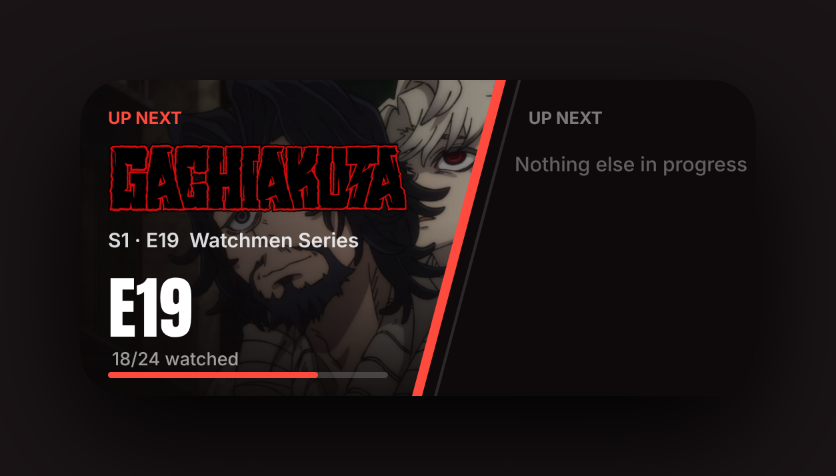
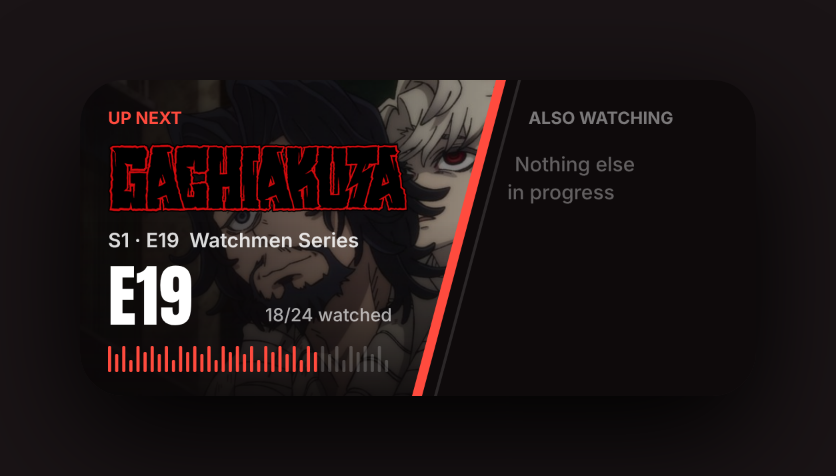
Nuvio Up Next v8: Slash layout with ticket barcode progress as default
Claude-Session: https://claude.ai/code/session_01PXGdQy46T6wRnRrF1gL8cR

diff --git a/scriptable/Nuvio Up Next.js b/scriptable/Nuvio Up Next.js
@@ -26,7 +26,7 @@ const ACCENT = "#ff4b3e";
 // "slash"   = diagonal red cut through the backdrop; Up Next steps down the diagonal
 // "ticket"  = cinema ticket: backdrop body + torn stub with % and 3 mini posters
 // "shelf"   = logo + big % on top, a row of posters (current one highlighted) along the bottom
-const LAYOUT = "split";
+const LAYOUT = "slash";
 
 // Nuvio's official public API (nuvio.tv/docs). The publishable key is published there for third-party apps.
 const NUVIO = "https://api.nuvio.tv";
@@ -633,6 +633,15 @@ const pctText = (c, info) => (info.upNext ? (info.notOut ? `IN ${info.d}D` : `E$
 const barPct = (c, info) => (info.upNext ? (c.seasonEpisodes ? Math.min(1, (c.seen || []).length / c.seasonEpisodes) : 0) : info.pct);
 const leftText = (c, info) => (info.upNext ? (info.notOut ? `E${c.showEpisode} airs soon` : `${(c.seen || []).length}${c.seasonEpisodes ? "/" + c.seasonEpisodes : ""} watched`) : info.left ? `${hm(info.left)} left` : "");
 
+// Ticket-style barcode progress: bars of varying height, red up to the % watched.
+function barcode(ctx, x, yBottom, w, pct, n = 40) {
+  const step = w / n;
+  for (let i = 0; i < n; i++) {
+    const h = [13, 9, 13, 6, 13, 10][i % 6];
+    rrect(ctx, x + i * step, yBottom - h, Math.max(1.6, step * 0.42), h, 0.6, i / n < pct ? col(ACCENT) : col("#ffffff", 0.2));
+  }
+}
+
 // SLASH
 async function drawSlash(c) {
   const ctx = new DrawContext(); ctx.size = new Size(W, H); ctx.opaque = true; ctx.respectScreenScale = true;
@@ -654,13 +663,13 @@ async function drawSlash(c) {
   text(ctx, info.kick, X, 14, 170, Font.boldSystemFont(8.5), col(ACCENT));
   await drawLogo(ctx, c, X, 30, 150, 38, 28);
   text(ctx, fit(subLine(c, info), 10, 150, 0.55), X, 74, 190, Font.semiboldSystemFont(10), col("#ffffff", 0.85));
-  text(ctx, pctText(c, info), X, 96, 120, COND(34), col("#ffffff"));
-  text(ctx, leftText(c, info), X + 2, 134, 150, Font.mediumSystemFont(9), col("#ffffff", 0.6));
-  const BW = 140, bp = barPct(c, info); rrect(ctx, X, H - 12, BW, 3, 1.5, col("#ffffff", 0.18));
-  if (bp > 0) rrect(ctx, X, H - 12, Math.max(3, BW * bp), 3, 1.5, col(ACCENT));
-  if (!(c.rows && c.rows.length)) text(ctx, "Nothing else\nin progress", edge(40) + 16, 36, 110, Font.mediumSystemFont(10), col("#ffffff", 0.35));
+  const big = pctText(c, info);
+  text(ctx, big, X, 90, 120, COND(34), col("#ffffff"));
+  text(ctx, leftText(c, info), X + 142 - 120, 112, 120, Font.mediumSystemFont(9), col("#ffffff", 0.65), "right");
+  barcode(ctx, X, H - 12, 142, barPct(c, info));
+  if (!(c.rows && c.rows.length)) { text(ctx, "Nothing else", edge(40) + 16, 36, 110, Font.mediumSystemFont(10), col("#ffffff", 0.35)); text(ctx, "in progress", edge(54) + 16, 50, 110, Font.mediumSystemFont(10), col("#ffffff", 0.35)); }
 
-  text(ctx, "UP NEXT", edge(14) + 16, 14, 80, Font.boldSystemFont(8.5), col("#ffffff", 0.45));
+  text(ctx, "ALSO WATCHING", edge(14) + 16, 14, 110, Font.boldSystemFont(8.5), col("#ffffff", 0.45));
   await loadRowImages(c.rows);
   (c.rows || []).slice(0, 3).forEach((r, i) => {
     const y = 32 + i * 41, x = edge(y + 16) + 16, w = W - x - 12;
@@ -829,7 +838,7 @@ async function diagnose() {
   if (data && data.history[0]) { const h = data.history[0]; lines.push(`Last watched: ${h.title || h.content_id} S${h.season}E${h.episode}`); }
   if (s && data) await step("Card", async () => { const c = await loadCard(s); return c ? `${c.title} (${c.type}${c.tmdb ? ", TMDB " + c.tmdb : ", no TMDB match"})` : "nothing to show"; });
   lines.push("TMDB key: " + (TMDB_KEY ? "set" : "missing"));
-  const a = new Alert(); a.title = "Connection check (v7)"; a.message = lines.join("\n\n"); a.addAction("Copy"); a.addCancelAction("Close");
+  const a = new Alert(); a.title = "Connection check (v8)"; a.message = lines.join("\n\n"); a.addAction("Copy"); a.addCancelAction("Close");
   if ((await a.presentAlert()) === 0) Pasteboard.copy(lines.join("\n"));
 }
 
@@ -890,7 +899,7 @@ const str = (v) => (typeof v === "string" ? v : "");
 async function alertSignIn() {
   for (let tries = 0; tries < 3; tries++) {
     const a = new Alert();
-    a.title = "Sign in to Nuvio (v7)";
+    a.title = "Sign in to Nuvio (v8)";
     a.message = "Your password goes straight to Nuvio and isn't saved. Only a login pass is kept, so the widgets stay signed in.";
     a.addTextField("Email");
     a.addSecureTextField("Password");
@@ -957,7 +966,7 @@ async function main() {
   if (!s) { if (!(await signInFlow())) return Script.complete(); await diagnose(); }
   else {
     const a = new Alert();
-    a.title = "Nuvio Up Next (v7)";
+    a.title = "Nuvio Up Next (v8)";
     a.message = `Signed in · profile: ${s.profileName || s.profile || 1}`;
     a.addAction("Preview widget");
     a.addAction("Switch profile");

diff --git a/scriptable/README.md b/scriptable/README.md
@@ -4,7 +4,7 @@ Home-screen and lock-screen widgets for [Scriptable](https://scriptable.app). Pa
 
 | Script (name in Scriptable) | Where | What |
 | --- | --- | --- |
-| `Nuvio Up Next.js` → **Nuvio Up Next** | Home, medium | **New (Nuvio source).** Latest show/movie from Nuvio: TMDB backdrop + official logo, episode name, % and time left. After finishing an episode it flips to *Up next* with season episode ticks, or a countdown if the next one isn't out. Run once in-app to sign in to Nuvio (password not stored; login pass shared via iCloud for the Mac). Tap = opens the title in Nuvio. Previews: `docs/nuvio/medium-*.png`. |
+| `Nuvio Up Next.js` → **Nuvio Up Next** | Home, medium | **New (Nuvio source).** **Slash layout** (default): latest show/movie from Nuvio with TMDB backdrop + official logo, a diagonal red cut, big %, a ticket-style barcode progress bar, and up to 3 other titles stepping down the diagonal. `LAYOUT` at the top also offers split / classic / ticket / shelf / hero. After finishing an episode it flips to *Up next* with season episode ticks, or a countdown if the next one isn't out. Run once in-app to sign in to Nuvio (password not stored; login pass shared via iCloud for the Mac). Tap = opens the title in Nuvio. Previews: `docs/nuvio/medium-*.png`. |
 | `Simkl Radar.js` → **Simkl Radar** | Home, medium | Continue-watching card from Simkl. Run it once in-app to link your account (PIN flow); the token is stored in `simkl-token.txt`, which the other Simkl script reuses. |
 | `Simkl Big.js` → **Simkl Big** | Home, large or extra large (Mac desktop / Notification Center via "Use iPhone widgets") | The Mac-style card: backdrop, poster, episode ticks, recently watched (2×2 in large, 4 across in extra large). Tap = resume in Nuvio. Previews: `docs/simkl-big-preview.png`, `docs/simkl-big-wide-preview.png`. |
 | `Manga Big.js` → **Manga Big** | Home, large (Mac via "Use iPhone widgets") | Poster style: Kagurabachi up top (cover art, giant chapter number, 8-week release rhythm), Sakamoto Days + Phantom Busters below. Reads WeebCentral series pages (the RSS lags); unread counts only if AniList is public. Tap = Tachimanga. Preview: `docs/manga-big-preview.png`. |
